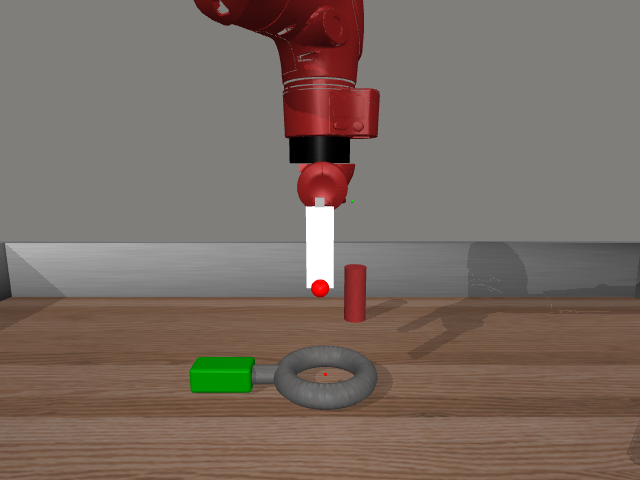
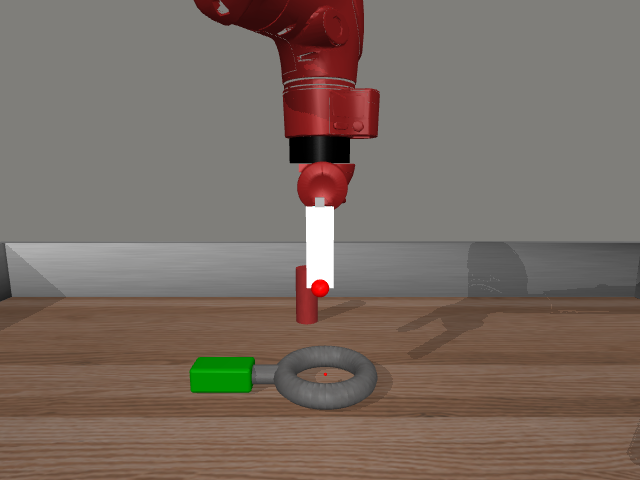
<-modify scripte_policy_movies_ours_new.ipynb> 1. assembly env -> button-press-topdown-v2 2. latentinput folder contains img, depth of new env.

Changed region(s): [[0.5312, 0.5312, 0.5938, 0.6875], [0.4375, 0.5312, 0.5, 0.6875]]

diff --git a/metaworld/metaworld/envs/mujoco/sawyer_xyz/v2/sawyer_assembly_peg_v2.py b/metaworld/metaworld/envs/mujoco/sawyer_xyz/v2/sawyer_assembly_peg_v2.py
@@ -12,8 +12,10 @@ class SawyerNutAssemblyEnvV2(SawyerXYZEnv):
     def __init__(self):
         hand_low = (-0.5, 0.40, 0.05)
         hand_high = (0.5, 1, 0.5)
-        obj_low = (0, 0.6, 0.02)
-        obj_high = (0, 0.6, 0.02)
+        # obj_low = (0, 0.6, 0.02)
+        obj_low = (-0.9, -0.9, -0.9)
+        # obj_high = (0, 0.6, 0.02)
+        obj_high = (0.9, 0.9, 0.9)
         goal_low = (-0.1, 0.75, 0.1)
         goal_high = (0.1, 0.85, 0.1)
 
@@ -25,7 +27,8 @@ class SawyerNutAssemblyEnvV2(SawyerXYZEnv):
 
         self.init_config = {
             'obj_init_angle': 0.3,
-            'obj_init_pos': np.array([0, 0.6, 0.02], dtype=np.float32),
+            # 'obj_init_pos': np.array([0, 0.6, 0.02], dtype=np.float32),
+            'obj_init_pos': np.array([0.8, 0.8, 0.8], dtype=np.float32),
             'hand_init_pos': np.array((0, 0.6, 0.2), dtype=np.float32),
         }
         self.goal = np.array([0.1, 0.8, 0.1], dtype=np.float32)
@@ -184,3 +187,4 @@ class SawyerNutAssemblyEnvV2(SawyerXYZEnv):
             reward_in_place,
             success,
         )
+    

diff --git a/metaworld/metaworld/envs/mujoco/sawyer_xyz/v1/sawyer_assembly_peg.py b/metaworld/metaworld/envs/mujoco/sawyer_xyz/v1/sawyer_assembly_peg.py
@@ -91,7 +91,6 @@ class SawyerNutAssemblyEnv(SawyerXYZEnv):
         self.sim.model.body_pos[self.model.body_name2id('peg')] = peg_pos
         self.sim.model.site_pos[self.model.site_name2id('pegTop')] = self._target_pos
         self.maxPlacingDist = np.linalg.norm(np.array([self.obj_init_pos[0], self.obj_init_pos[1], self.heightTarget]) - np.array(self._target_pos)) + self.heightTarget
-
         return self._get_obs()
 
     def _reset_hand(self):
